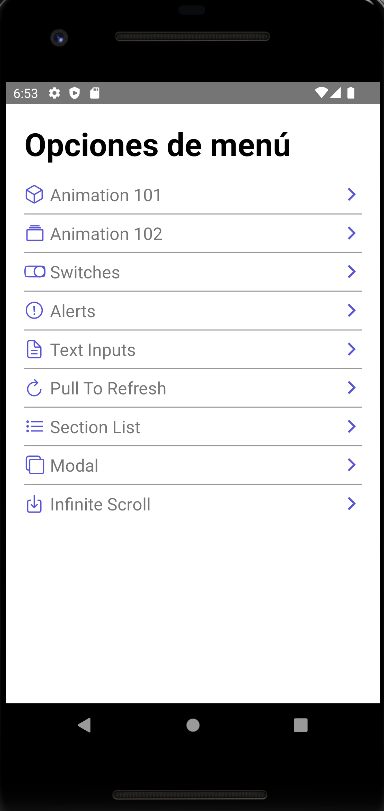
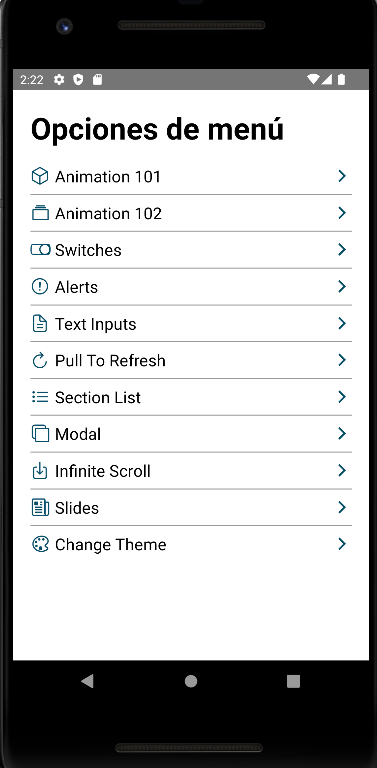
Se agregan nuevas imágenes al archivo README.md y se modifica archivo con información de proyecto terminado.

Changed region(s): [[0.0, 0.0, 1.0, 1.0], [0.2918, 0.9688, 0.7003, 1.0], [0.992, 0.0, 1.0, 0.0312]]

diff --git a/README.md b/README.md
@@ -15,3 +15,8 @@ In this app you'll find a basic usage for the basics components in react Native,
 | App Home Page                                      | Alerts                                             | Infinite Scroll                                    | Pull to refresh                                    |
 | -------------------------------------------------- | -------------------------------------------------- | -------------------------------------------------- | -------------------------------------------------- |
 | <image src="./assets/rm1.png" alt="homePageImage"> | <image src="./assets/rm2.png" alt="homePageImage"> | <image src="./assets/rm3.png" alt="homePageImage"> | <image src="./assets/rm4.png" alt="homePageImage"> |
+
+
+| Slides                                             | Change Theme - Light                               | Change Theme - Dark                                | Pull to refresh                                    |
+| -------------------------------------------------- | -------------------------------------------------- | -------------------------------------------------- | -------------------------------------------------- |
+| <image src="./assets/rm5.png" alt="homePageImage"> | <image src="./assets/rm6.png" alt="homePageImage"> | <image src="./assets/rm7.png" alt="homePageImage"> | <image src="./assets/rm8.png" alt="homePageImage"> |
